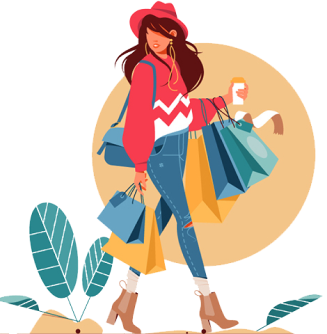
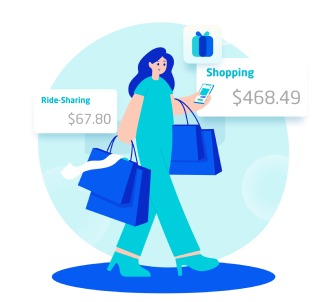
Fix #305 and update newest design

diff --git a/src/screens/IntroductionScreen/index.js b/src/screens/IntroductionScreen/index.js
@@ -1,69 +1,85 @@
 import React from 'react';
+import {View, Image, Dimensions} from 'react-native';
 import {FormattedMessage} from 'react-intl';
 import {useTheme} from 'emotion-theming';
 
 import {
-  ScrollContainer,
-  Container,
-  BackgroundImage,
+  container,
+  bodyContainer,
+  inner,
+  backgroundImage,
   titleStyle,
   detailStyle,
   button,
+  scale,
 } from './style';
 
 import BindingButton from './BindingButton';
 import useSetupFlow from '@/hooks/useSetupFlow';
-import BindingEmailIcon from '@/assets/binding-email.svg';
-import BindingBankAccountIcon from '@/assets/binding-bank-account.svg';
+import EmailIcon from '@/assets/icon_mail.svg';
+import CreditCardIcon from '@/assets/icon_credit-card.svg';
 import AppText from '@/components/AppText2';
 import AppButton from '@/components/AppButton';
+import AppKeyboardAvoidingView from '@/components/AppKeyboardAvoidingView';
+import ScreenContainer from '@/components/ScreenContainer';
+
+const {width} = Dimensions.get('window');
+const scaleDown = width < 414;
 
 const IntroductionScreen = () => {
   const theme = useTheme();
   const {navigateByFlow} = useSetupFlow();
   return (
-    <ScrollContainer>
-      <Container>
-        <BackgroundImage source={require('@/assets/introduce_1.png')} />
-        <AppText variant="heading3" style={titleStyle(theme)}>
-          <FormattedMessage
-            id="select_way_to_retrieve_your_shopping_records"
-            defaultMessage="Select which way to retrieve your shopping records"
-          />
-        </AppText>
-        <AppText variant="body1" style={detailStyle(theme)}>
-          <FormattedMessage
-            id="reward_me_needs_your_transaction_records"
-            defaultMessage="RewardMe needs your shopping transaction records in order to give your cash back."
-          />
-        </AppText>
-        <BindingButton
-          icon={<BindingEmailIcon />}
-          title="Connect with Emails"
-          caption="Powered by MailTime"
-          onPress={() => navigateByFlow('email_flow')}
-        />
-        <BindingButton
-          icon={<BindingBankAccountIcon />}
-          title="Link Credit/Debit Cards"
-          caption="Powered by Plaid and CrediGO"
-          onPress={() => navigateByFlow('card_flow')}
-        />
-        <AppButton
-          variant="outlined"
-          sizeVariant="normal"
-          colorVariant="contrast"
-          text={
-            <FormattedMessage
-              id="button.skip_for_now"
-              defaultMessage="Skip for now"
+    <AppKeyboardAvoidingView style={container(theme)} behavior="padding">
+      <View style={inner}>
+        <ScreenContainer>
+          <View style={bodyContainer}>
+            <Image
+              source={require('@/assets/introduce_1.png')}
+              style={[backgroundImage, scaleDown && scale]}
+              resizeMode="contain"
             />
-          }
-          onPress={() => navigateByFlow('skip')}
-          style={button}
-        />
-      </Container>
-    </ScrollContainer>
+            <AppText variant="heading3" style={titleStyle(theme)}>
+              <FormattedMessage
+                id="select_way_to_retrieve_your_shopping_records"
+                defaultMessage="Select which way to retrieve your shopping records"
+              />
+            </AppText>
+            <AppText variant="body1" style={detailStyle(theme)}>
+              <FormattedMessage
+                id="reward_me_needs_your_transaction_records"
+                defaultMessage="RewardMe needs your shopping transaction records in order to give your cash back."
+              />
+            </AppText>
+            <BindingButton
+              icon={EmailIcon}
+              title="Connect with Emails"
+              caption="Powered by MailTime"
+              onPress={() => navigateByFlow('email_flow')}
+            />
+            <BindingButton
+              icon={CreditCardIcon}
+              title="Link Credit/Debit Cards"
+              caption="Powered by Plaid and CrediGO"
+              onPress={() => navigateByFlow('card_flow')}
+            />
+          </View>
+          <AppButton
+            variant="outlined"
+            sizeVariant="normal"
+            colorVariant="contrast"
+            text={
+              <FormattedMessage
+                id="button.skip_for_now"
+                defaultMessage="Skip for now"
+              />
+            }
+            onPress={() => navigateByFlow('skip')}
+            style={button}
+          />
+        </ScreenContainer>
+      </View>
+    </AppKeyboardAvoidingView>
   );
 };
 

diff --git a/src/screens/EnjoyCashBackScreen/index.js b/src/screens/EnjoyCashBackScreen/index.js
@@ -1,47 +1,54 @@
 import React from 'react';
-import {ScrollView, Image} from 'react-native';
+import {View, Image} from 'react-native';
 import {FormattedMessage} from 'react-intl';
 import {useTheme} from 'emotion-theming';
 
 import AppText from '@/components/AppText2';
-import ScreenContainer from '@/components/ScreenContainer';
 import AppButton from '@/components/AppButton';
 import useSetupFlow from '@/hooks/useSetupFlow';
+import HeaderTitle from '@/components/HeaderTitle';
+import AppKeyboardAvoidingView from '@/components/AppKeyboardAvoidingView';
 
-import {detail, title, image, container} from './style';
+import {detail, bodyContainer, image, container, inner} from './style';
 
 const EnjoyCashBackScreen = () => {
   const theme = useTheme();
   const {navigateByFlow} = useSetupFlow();
   return (
-    <ScrollView style={container}>
-      <ScreenContainer>
-        <AppText variant="heading2" style={title(theme)}>
-          <FormattedMessage
-            id="enjoy_cashback"
-            defaultMessage="Enjoy Cash Back"
+    <AppKeyboardAvoidingView style={container} behavior="padding">
+      <View style={inner}>
+        <View>
+          <HeaderTitle>
+            <FormattedMessage
+              id="enjoy_cashback"
+              defaultMessage="Enjoy Cash Back"
+            />
+          </HeaderTitle>
+          <View style={bodyContainer}>
+            <AppText variant="body1" style={detail(theme)}>
+              <FormattedMessage
+                id="enjoy_cashback_detail"
+                defaultMessage="As a RewardMe member, you will enjoy cash back automatically on your purchases. Once a new transaction is recorded, your rewards await!"
+              />
+            </AppText>
+            <Image
+              source={require('@/assets/enjoy_cashback.png')}
+              resizeMode="contain"
+              style={image}
+            />
+          </View>
+        </View>
+        <View style={bodyContainer}>
+          <AppButton
+            onPress={() => navigateByFlow()}
+            text={<FormattedMessage id="button.start" defaultMessage="Start" />}
+            variant="filled"
+            sizeVariant="large"
+            colorVariant="secondary"
           />
-        </AppText>
-        <AppText variant="body1" style={detail(theme)}>
-          <FormattedMessage
-            id="enjoy_cashback_detail"
-            defaultMessage="As a RewardMe member, you will enjoy cash back automatically on your purchases. Once a new transaction is recorded, your rewards await!"
-          />
-        </AppText>
-        <Image
-          source={require('@/assets/enjoy_cashback.png')}
-          resizeMode="contain"
-          style={image}
-        />
-        <AppButton
-          onPress={() => navigateByFlow()}
-          text={<FormattedMessage id="button.start" defaultMessage="Start" />}
-          variant="filled"
-          sizeVariant="large"
-          colorVariant="secondary"
-        />
-      </ScreenContainer>
-    </ScrollView>
+        </View>
+      </View>
+    </AppKeyboardAvoidingView>
   );
 };
 

diff --git a/src/screens/IntroductionScreen/BindingButton/index.js b/src/screens/IntroductionScreen/BindingButton/index.js
@@ -1,26 +1,29 @@
 import React from 'react';
+import {View, TouchableOpacity} from 'react-native';
+import AppText from '@/components/AppText2';
+import AppIcon from '@/components/AppIcon';
 
-import {
-  Button,
-  ButtonView,
-  TextContainer,
-  ButtonTitle,
-  ButtonCaption,
-} from './style';
+import {button, container, header, textContainer} from './style';
 import {useTheme} from 'emotion-theming';
 
 const BindingButton = ({icon, title, caption, ...props}) => {
   const theme = useTheme();
   return (
-    <Button {...props}>
-      <ButtonView style={theme.colors.elevatedDarkerCardFlat}>
-        {icon}
-        <TextContainer>
-          <ButtonTitle>{title}</ButtonTitle>
-          <ButtonCaption>{caption}</ButtonCaption>
-        </TextContainer>
-      </ButtonView>
-    </Button>
+    <TouchableOpacity style={button} {...props}>
+      <View style={container(theme)}>
+        <AppIcon
+          svgIcon={icon}
+          sizeVariant="normal"
+          color={theme.colors.background1}
+          backgroundColor={theme.colors.secondary.normal}
+        />
+        <View style={textContainer}>
+          <AppText variant="heading5" style={header(theme)}>
+            {title}
+          </AppText>
+        </View>
+      </View>
+    </TouchableOpacity>
   );
 };
 

diff --git a/src/screens/IntroductionScreen/style.js b/src/screens/IntroductionScreen/style.js
@@ -6,29 +6,43 @@ export const Container = styled(ScreenContainer)`
   align-items: center;
 `;
 
-export const ScrollContainer = styled.ScrollView`
-  background: ${props => props.theme.colors.themeBackground};
-  padding-left: 24px;
-  padding-right: 24px;
+export const bodyContainer = css`
+  padding-horizontal: 24px;
 `;
 
-export const BackgroundImage = styled.Image`
+export const container = (theme) => css`
+  flex: 1;
+  background: ${theme.colors.themeBackground};
+`;
+
+export const inner = css`
+  flex: 1;
+  justify-content: space-between;
+  padding-bottom: 24px;
+`;
+
+export const backgroundImage = css`
   align-self: center;
   margin-bottom: 16px;
 `;
 
-export const titleStyle = theme => css`
+export const titleStyle = (theme) => css`
   color: ${theme.colors.textOnThemeBackground.highEmphasis};
   text-align: center;
   margin-bottom: 16px;
 `;
 
-export const detailStyle = theme => css`
+export const detailStyle = (theme) => css`
   color: ${theme.colors.textOnThemeBackground.mediumEmphasis};
   text-align: center;
   margin-bottom: 16px;
 `;
 
 export const button = css`
-  width: 100%;
+  margin-horizontal: 24px;
+`;
+
+export const scale = css`
+  height: 178px;
+  aspect-ratio: 1.5;
 `;

diff --git a/src/screens/IntroductionScreen/BindingButton/style.js b/src/screens/IntroductionScreen/BindingButton/style.js
@@ -1,30 +1,22 @@
-import styled from '@emotion/native';
-import TitleText from '@/components/TitleText';
-import AppText from '@/components/AppText';
+import {css} from '@emotion/native';
 
-export const Button = styled.TouchableOpacity`
+export const button = css`
   margin-bottom: 16px;
-  width: 100%;
 `;
 
-export const ButtonView = styled.View`
+export const container = (theme) => css`
+  ${theme.colors.elevatedDarkerCardFlat};
   flex-direction: row;
   align-items: center;
   border-radius: 16px;
-  padding: 24px 16px;
+  padding: 16px;
 `;
 
-export const TextContainer = styled.View`
+export const textContainer = css`
   margin-left: 16px;
   flex: 1;
 `;
 
-export const ButtonTitle = styled(TitleText)`
-  font-size: 18px;
-  color: ${props => props.theme.colors.contrastColor};
-`;
-
-export const ButtonCaption = styled(AppText)`
-  font-size: 12px;
-  color: ${props => props.theme.colors.textOnBackground.disabled};
+export const header = (theme) => css`
+  color: ${theme.colors.contrastColor};
 `;

diff --git a/src/screens/EnjoyCashBackScreen/style.js b/src/screens/EnjoyCashBackScreen/style.js
@@ -1,7 +1,17 @@
 import {css} from '@emotion/native';
 
 export const container = css`
+  flex: 1;
+`;
+
+export const bodyContainer = css`
   padding-horizontal: 24px;
+`;
+
+export const inner = css`
+  flex: 1;
+  justify-content: space-between;
+  padding-bottom: 24px;
 `;
 
 export const title = (theme) => css`
@@ -10,7 +20,7 @@ export const title = (theme) => css`
 
 export const detail = (theme) => css`
   color: ${theme.colors.textOnBackground.mediumEmphasis};
-  margin-vertical: 24px;
+  margin-bottom: 29px;
 `;
 
 export const image = css`
